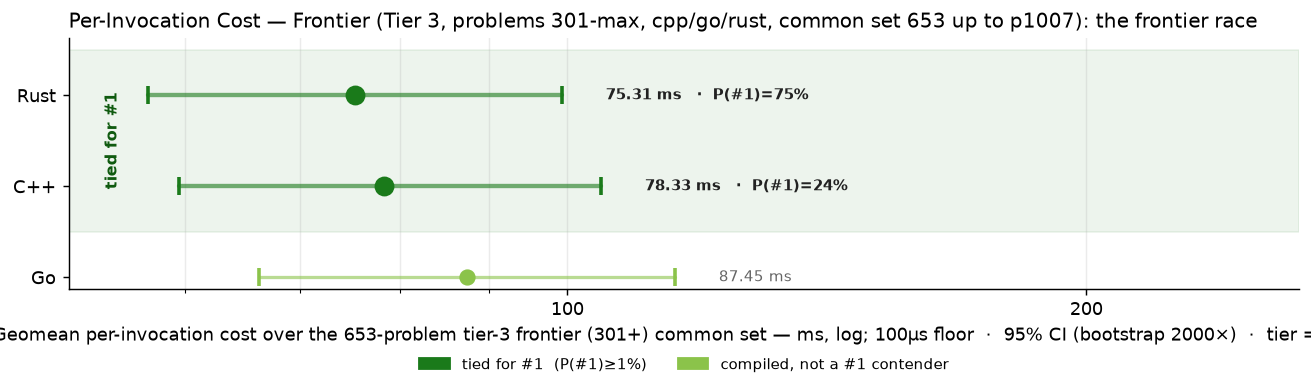
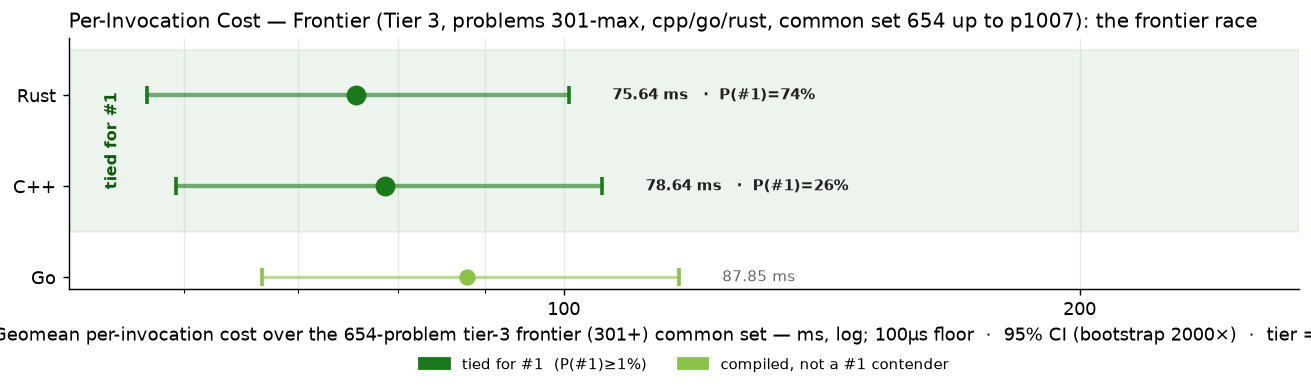
cpp p0798

diff --git a/RESULTS.md b/RESULTS.md
@@ -1,6 +1,6 @@
 # Project Euler — Cross-Language Benchmarks
 
-> **Scope: 4521 in-scope cells across 1007 problems × tiered languages — 4413 measured (97.6% coverage).**
+> **Scope: 4521 in-scope cells across 1007 problems × tiered languages — 4414 measured (97.6% coverage).**
 > The cross-language ranking below is computed over the **200-problem common set** (problems in 1-200 where every language has a passing measurement) — the apples-to-apples Foundation comparison surface.  Per-tier rankings and coverage detail appear further below.
 > Growing carefully — each new problem and language is audited for state-leak
 > safety, verified for answer correctness, and added only when it cleanly fits the
@@ -70,15 +70,15 @@ Same scatter as the Foundation chart, restricted to the tier-2 active languages 
 
 The frontier verification trio — C++, Go, Rust — on problems above 300. 3-way cross-language agreement is the verification protocol (strictly stronger than 2-way; see JOURNEY.md "Tier Reframing" episode for the p254 lesson that motivated it). Python and Zig are explicitly out of this tier — python's wall cost makes it impractical at level 5+, and zig's role caps at Tier 2.
 
-### Per-Invocation Cost (Common Set, 653 of ≤707 problems in scope)
+### Per-Invocation Cost (Common Set, 654 of ≤707 problems in scope)
 
 ![Per-Invocation Cost — Tier 3](charts/per_iter_total_tier3.png)
 
-| Rank | Language | Geomean (653-problem common set) | Total (sum) | Lines of code | vs Fastest |
+| Rank | Language | Geomean (654-problem common set) | Total (sum) | Lines of code | vs Fastest |
 |------|----------|--------------------:|------------:|--------------:|-----------:|
-| 1 | **Rust** | 75.31 ms | 1759.18 s | 131,121 | 1.00× |
-| 2 | **C++** | 78.33 ms | 1901.80 s | 95,373 | 1.04× |
-| 3 | **Go** | 87.45 ms | 2129.34 s | 121,568 | 1.16× |
+| 1 | **Rust** | 75.64 ms | 1760.58 s | 131,423 | 1.00× |
+| 2 | **C++** | 78.64 ms | 1902.83 s | 95,552 | 1.04× |
+| 3 | **Go** | 87.85 ms | 2131.05 s | 121,789 | 1.16× |
 
 ### Speed vs Code Size
 
@@ -264,7 +264,7 @@ table never silently mixes versions (METHODOLOGY.md §4).  Current state of the
 |----------|-----------|------:|---------------|
 | **ARM64** | `Apple clang version 21.0.0 (clang-2100.1.1.101)` | 200 | 2026-07-30 |
 | **C** | `Apple clang version 21.0.0 (clang-2100.1.1.101)` | 200 | 2026-07-30 |
-| **C++** | `Apple clang version 21.0.0 (clang-2100.1.1.101)` | 954 | 2026-09-05 |
+| **C++** | `Apple clang version 21.0.0 (clang-2100.1.1.101)` | 955 | 2026-09-06 |
 | **C#** | `10.0.101` | 200 | 2026-07-30 |
 | **Go** | `go version go1.26.5 darwin/arm64` | 957 | 2026-09-06 |
 | **Java** | `openjdk version "21.0.2" 2024-01-16 LTS` | 200 | 2026-07-30 |

diff --git a/per_problem/per_problem_0701-0800.md b/per_problem/per_problem_0701-0800.md
@@ -105,7 +105,7 @@ in tier-1 display order (native → managed → interpreted).
 | **p0795** | 91.01 ms | 93.66 ms | 100.60 ms |
 | **p0796** | 8.1 µs | 17.5 µs | 2.54 ms |
 | **p0797** | 754.76 ms | 858.98 ms | 837.77 ms |
-| **p0798** | — | 1.40 s | 1.71 s |
+| **p0798** | 1.03 s | 1.40 s | 1.71 s |
 | **p0799** | 7.26 s | 5.67 s | 15.28 s |
 | **p0800** | 88.48 ms | 51.46 ms | 44.34 ms |
 
